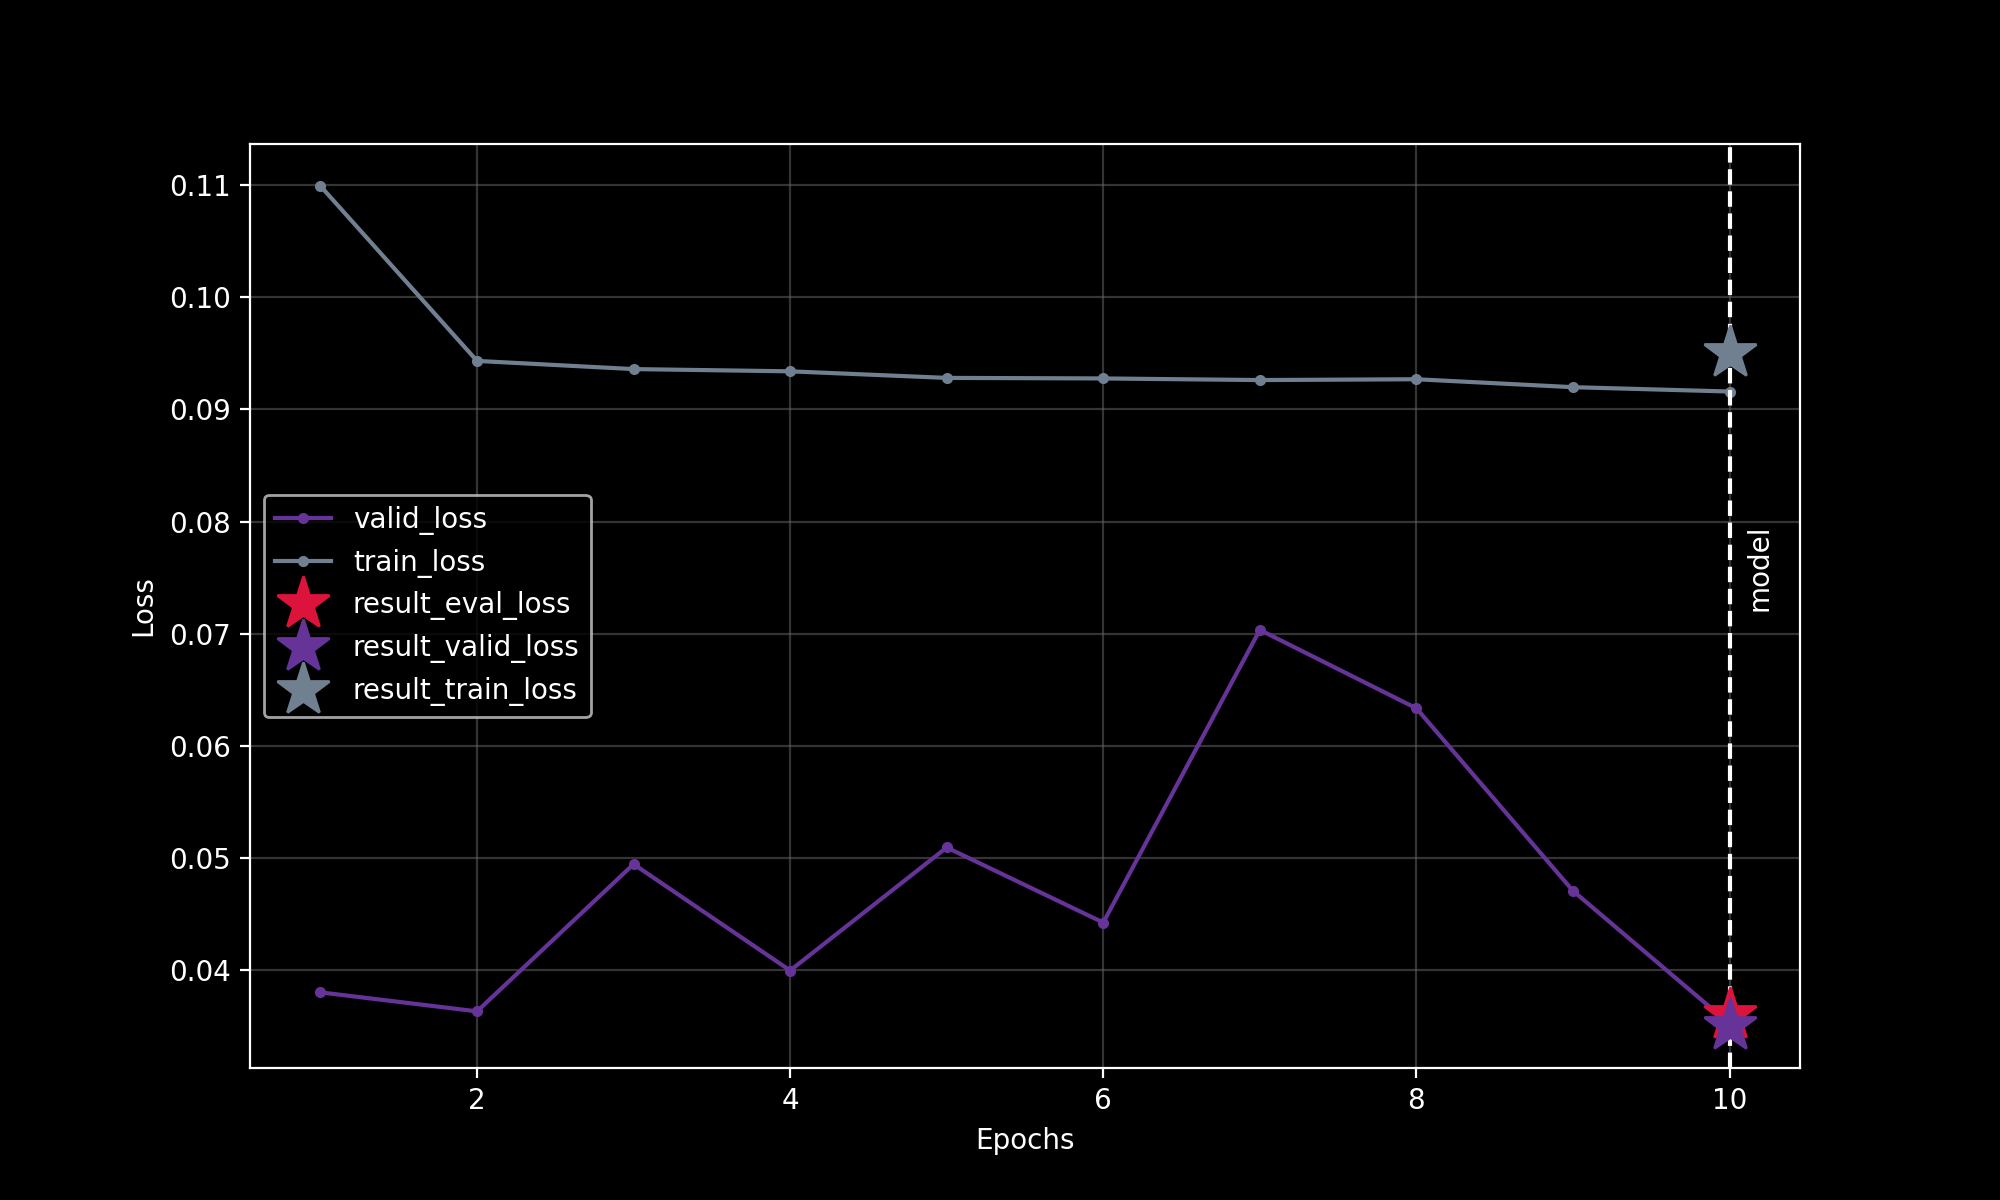
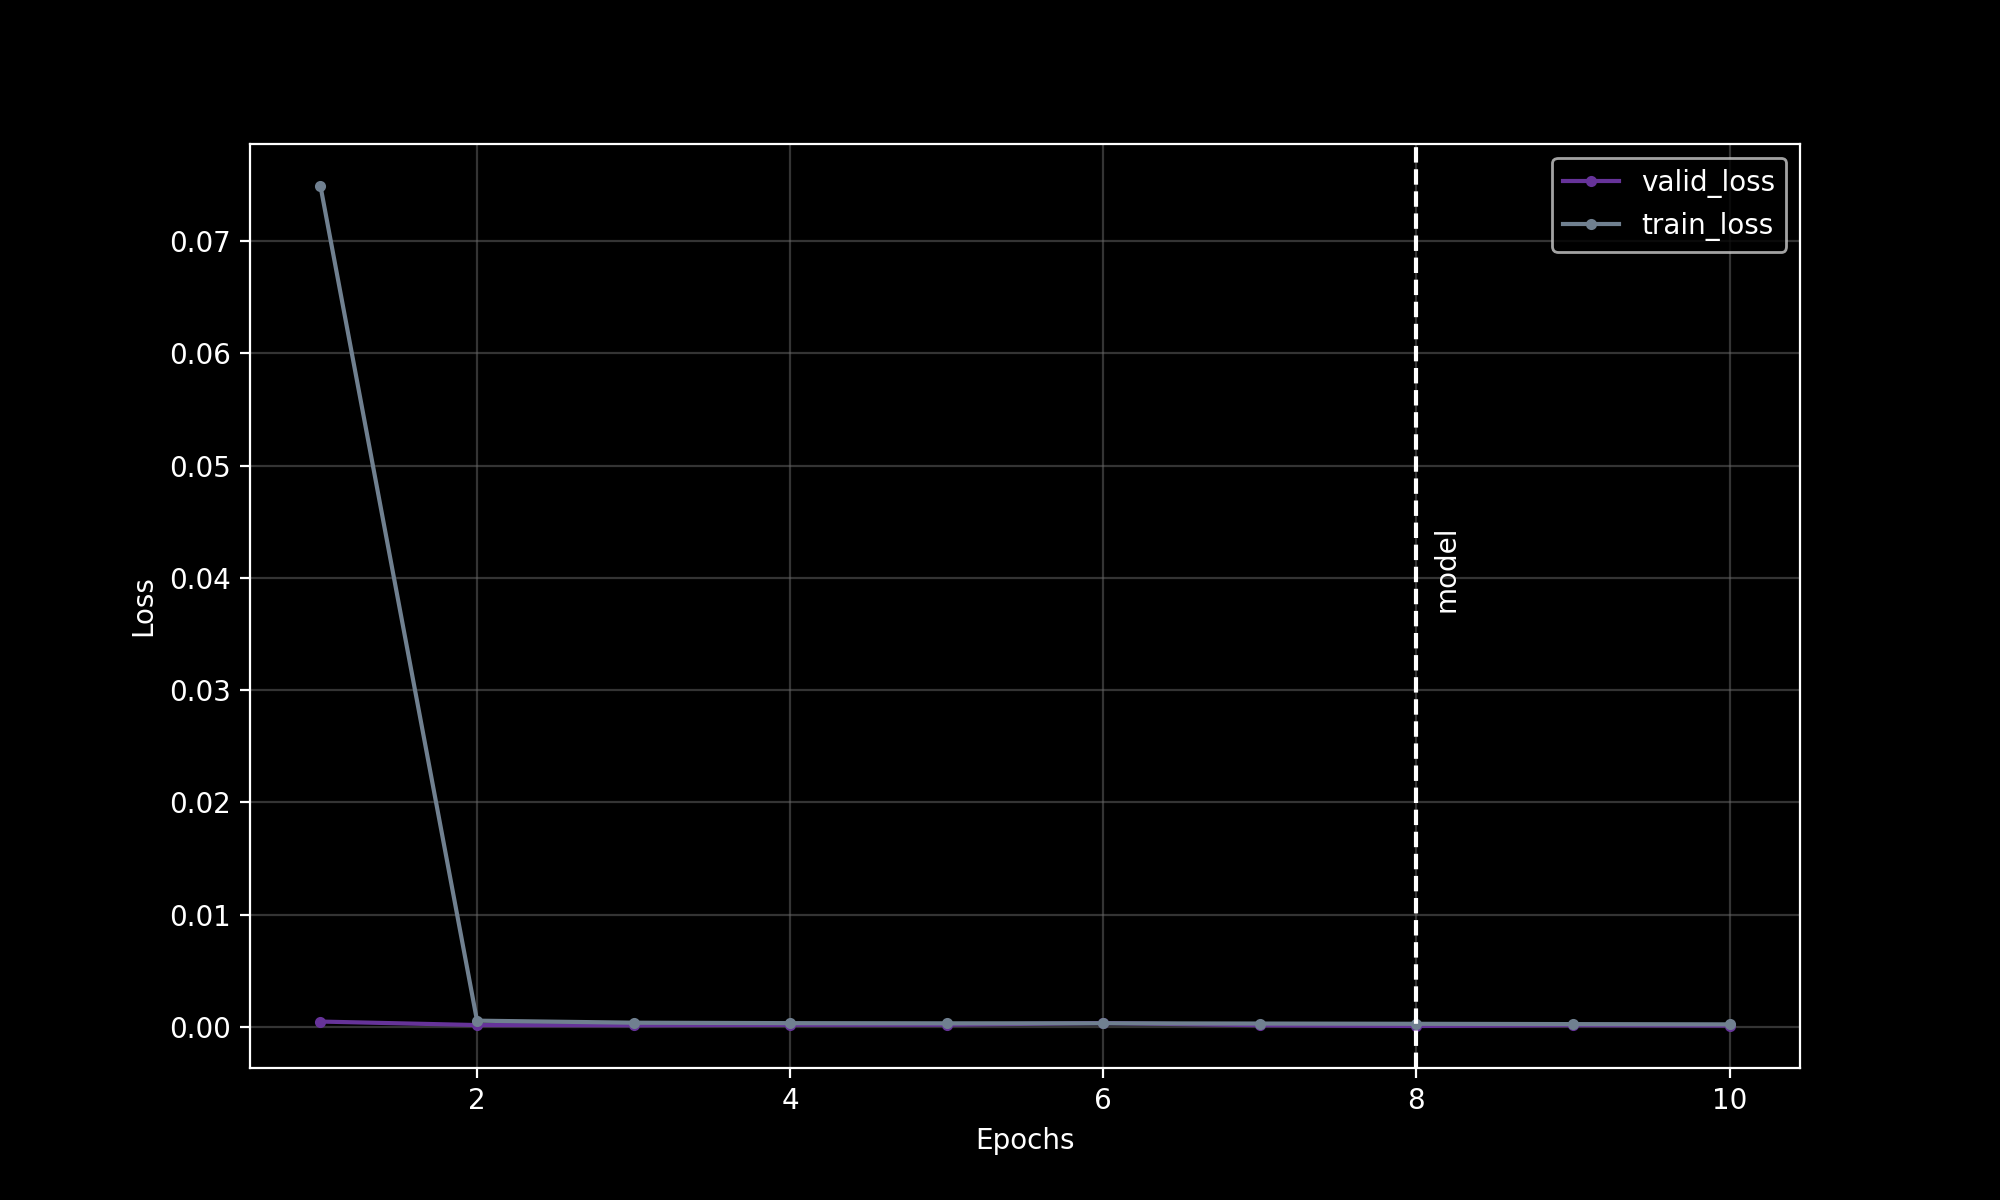
Updated ETT tutorial after data framework overhaul.

diff --git a/tutorials/ETT_basics_tutorial/ETT_tut.md b/tutorials/ETT_basics_tutorial/ETT_tut.md
@@ -149,6 +149,8 @@ See ``KnowIt.user_options.md`` for information on additional kwargs.
 from knowit import KnowIt
 # create a KnowIt object linked to a new experiment directory
 KI = KnowIt('ETT_exp_dir')
+# we switch KnowIt to verbose mode to provide more information
+KI.global_args(verbose=True)
 # import the prepared data into KnowIt
 KI.import_dataset({'data_import_args': {'path': 'ETT_ready.pkl'}})
 ```
@@ -194,7 +196,7 @@ print(KI.summarize_dataset('ETTm'))
 ### 4.3. Observations
 
 Given the output, we can see that:
- - there are three datasets available to our KnowIt object; the two defaults and our new custom dataset.
+ - there are two datasets available to our KnowIt object; the default 'synth_2' dataset and our new custom 'ETTm' dataset.
  - there are four architectures available for training; all defaults.
  - the specifics of our new dataset are as expected.
 
@@ -239,10 +241,10 @@ it allows us a lot of freedom in defining alternative tasks on-the-fly.
 The second kwarg dictionary (arch) defines the deep learning architecture that will be trained to form the model.
 As a bare minimum, we need to define the architecture name and type of task the model will perform:
  - task = 'regression' &#8594; We want the model output to be real-valued.
- - 'name' = 'LSTM' &#8594; We want to use the default LSTM based architecture to build our model.
+ - 'name' = 'TCN' &#8594; We want to use the default TCN based architecture to build our model.
 
 Note that hyperparameters relating to the architecture can also be set by passing an 'arch_hps' kwarg dictionary.
-Here we just use the default hyperparameters as defined in the relevant architecture script ``KnowIt.default_archs.LSTM``.
+Here we just use the default hyperparameters as defined in the relevant architecture script ``KnowIt.default_archs.TCN``.
 
 **trainer** &#8594;
 
@@ -259,8 +261,10 @@ In this example we will use a very basic setup:
 ### 5.1. Code
 
 ```python
+from knowit import KnowIt
+KI = KnowIt('ETT_exp_dir')
 # name the new model
-model_name = "ETTm_uni_model_lstm"
+model_name = "ETTm_uni_model_tcn"
 # define dataset kwargs
 data_args = {'name': 'ETTm',
              'task': 'regression',
@@ -274,7 +278,7 @@ data_args = {'name': 'ETTm',
              'scaling_method': 'z-norm'}
 # Define architecture kwargs
 arch_args = {'task': 'regression',
-             'name': 'LSTM'}
+             'name': 'tcn'}
 # Define trainer kwargs
 trainer_args = {'loss_fn': 'mse_loss',
                 'optim': 'Adam',
@@ -290,7 +294,7 @@ KI.train_model(model_name=model_name,
 
 ### 5.2. Output
 
-The following files are created under ``ETT_exp_dir.models.ETTm_uni_model_lstm``:
+The following files are created under ``ETT_exp_dir.models.ETTm_uni_model_tcn``:
 
 ![trained_model.png](trained_model.png)
 
@@ -308,18 +312,9 @@ See ``result_structure.md`` for details on the output format for the trained mod
 
 Note that our code has produced a visualization of the learning curves captured in the ``lightning_logs`` subdirectory.
 See ``helpers.viz.plot_learning_curves`` for the code to generate this visualization.
-We note that our training operation has reduced the loss drastically within the first to epochs, and then 
-stagnated quite quickly. The best model was obtained at the last epoch. By default, the model is saved at 
-the epoch with the lowest validation loss. 
-
-If we open the ``lightning_logs`` we see that the exact final evaluation loss is 0.03582769259810448. 
-This is not too far off from what we would expect given the reported ETTm1 scores in Table 1 of [1]. 
-Note that we predict the OT value 24 time steps into the future, while they predict 
-OT for the next 24 time steps.
-
-[1]
-H. Zhou et al., “Informer: Beyond Efficient Transformer for Long Sequence Time-Series Forecasting,” 
-arXiv:2012.07436 [cs], Mar. 2021, Available: https://arxiv.org/abs/2012.07436
+We note that our training operation has reduced the loss drastically within the first epoch, and then 
+stagnated quite quickly. The best model was obtained at the eighth epoch. By default, the model is saved at 
+the epoch with the lowest validation loss. If we open the ``lightning_logs`` we see that the exact final validation loss is 0.00008289787.
 
 ---
 
@@ -330,21 +325,21 @@ by visualizing its prediction on data it was not trained on.
 
 We do this by calling ``KnowIt.generate_predictions`` function with the required model name and kwarg dictionary.
 The only kwarg dictionary that is required is 'predictor' and we set the desired data split to be predicted on to 
-'eval', corresponding to the evaluation set.
+'valid', corresponding to the validation set.
 
 
 ### 6.1. Code
 
 ```python
-# generate model predictions on the evaluation set and use default visualization for predictions
+# generate model predictions on the validation set and use default visualization for predictions
 KI.generate_predictions(model_name=model_name,
-                        kwargs={'predictor': {'prediction_set': 'eval'}},
+                        kwargs={'predictor': {'prediction_set': 'valid'}},
                         and_viz=True)
 ```
 
 ### 6.2. Output
 
-The following files are now listed under ``ETT_exp_dir.models.ETTm_uni_model_lstm``:
+The following files are now listed under ``ETT_exp_dir.models.ETTm_uni_model_tcn``:
 
 ![trained_model_after_predictions.png](trained_model_after_predictions.png)
 
@@ -358,16 +353,16 @@ The previous visualization, zoomed in:
 
 ### 6.3. Observations
 
-Note that our code has produced a visualization of the evaluation set predictions of our trained model.
+Note that our code has produced a visualization of the validation set predictions of our trained model.
 See ``helpers.viz.plot_set_predictions`` for the code to generate this visualization.
 
 Each point on the horizontal axis represents a prediction point (ordered by time step).
-Each point on the vertical axis shows the OT value as represented by the ground truth (red), and
-predicted by the model (blue), at the current prediction point.
+Each point on the vertical axis shows the OT value (rescaled to its native range) as represented by the 
+ground truth (red), and predicted by the model (blue), at the current prediction point.
 
 Notice that if we look at the overall predictions (top visualization) it appears that the model, 
 is making very accurate predictions in general. However, if we look at the zoomed in visualization (bottom), 
-we see that the model tends to output a near copy of the OT, only delayed by some constant number of 
+we see that the model tends to output a near copy of the OT, only delayed by some number of 
 time steps. From this we suspect that the model is performing a naive forecast, where the forecasted value is 
 just the most recently available value in the input chunk.
 
@@ -382,7 +377,7 @@ regarded as overwhelmingly more important than the others, it would be a strong 
 To do this we call ``KnowIt.interpret_model`` and provide the required kwarg dictionary (interpreter).
 The kwargs we provide are as follows:
  - interpretation_method = 'DeepLift' &#8594; Use [Captum's DeeLift](https://captum.ai/api/deep_lift.html) feature attributions.
- - 'interpretation_set' = 'eval' &#8594; Interpret model prediction on the evaluation set predictions.
+ - 'interpretation_set' = 'valid' &#8594; Interpret model prediction on the validation set predictions.
  - 'selection' = 'random' &#8594; Select a random set of contiguous prediction points to interpret.
  - 'size' = 100 &#8594; Select 100 prediction points to interpret.
 
@@ -391,7 +386,7 @@ The kwargs we provide are as follows:
 ```python
 # set up interpreter kwarg dictionary
 interpret_args = {'interpretation_method': 'DeepLift',
-                  'interpretation_set': 'eval',
+                  'interpretation_set': 'valid',
                   'selection': 'random',
                   'size': 100}
 # Initiate interpretations and use default visualization methods
@@ -402,7 +397,7 @@ KI.interpret_model(model_name=model_name,
 
 ### 7.2. Output
 
-The following files are now listed under ``ETT_exp_dir.models.ETTm_uni_model_lstm``:
+The following files are now listed under ``ETT_exp_dir.models.ETTm_uni_model_tcn``:
 
 ![trained_model_after_interpretations.png](trained_model_after_interpretations.png)
 
@@ -412,7 +407,7 @@ The following visualization is stored under the ``visualizations`` subdirectory.
 
 ### 7.3. Observations
 
-Note that our code has produced a visualization of the interpretation's 100 evaluation set predictions of our trained model.
+Note that our code has produced a visualization of the interpretation's 100 validation set predictions of our trained model.
 See ``helpers.viz.plot_feature_attribution`` for the code to generate this visualization.
 
 The top plot shows the full set of interpreted prediction point target (red) and predicted (blue) OT values.
@@ -421,8 +416,9 @@ The dashed lines frame the input chunk and the solid line indicates the predicti
 Note that the input chunk is delayed by a number (we know to be 24) of time steps behind the prediction point.
 
 The bottom plot shows a heatmap of the feature attributions assigned to each input feature in the input chunk.
-We note that the most recently available time step in the input chunk (corresponding to delay -24), 
-consistently has a much higher feature attribution value than the others. This supports our hypothesis that 
-our model is really only making naive forecasts.
+We note that the OT value at a time delay of -48 consistently has higher attribution value, while most 
+of the others tend to fluctuate. This suggests that our hypothesis was not entirely correct. Our model seems to be 
+basing its prediction a lot on the OT value 12 hours in the past (-48 x 15min) even though it is given OT values for the 
+6 hours after that point.
 
 
